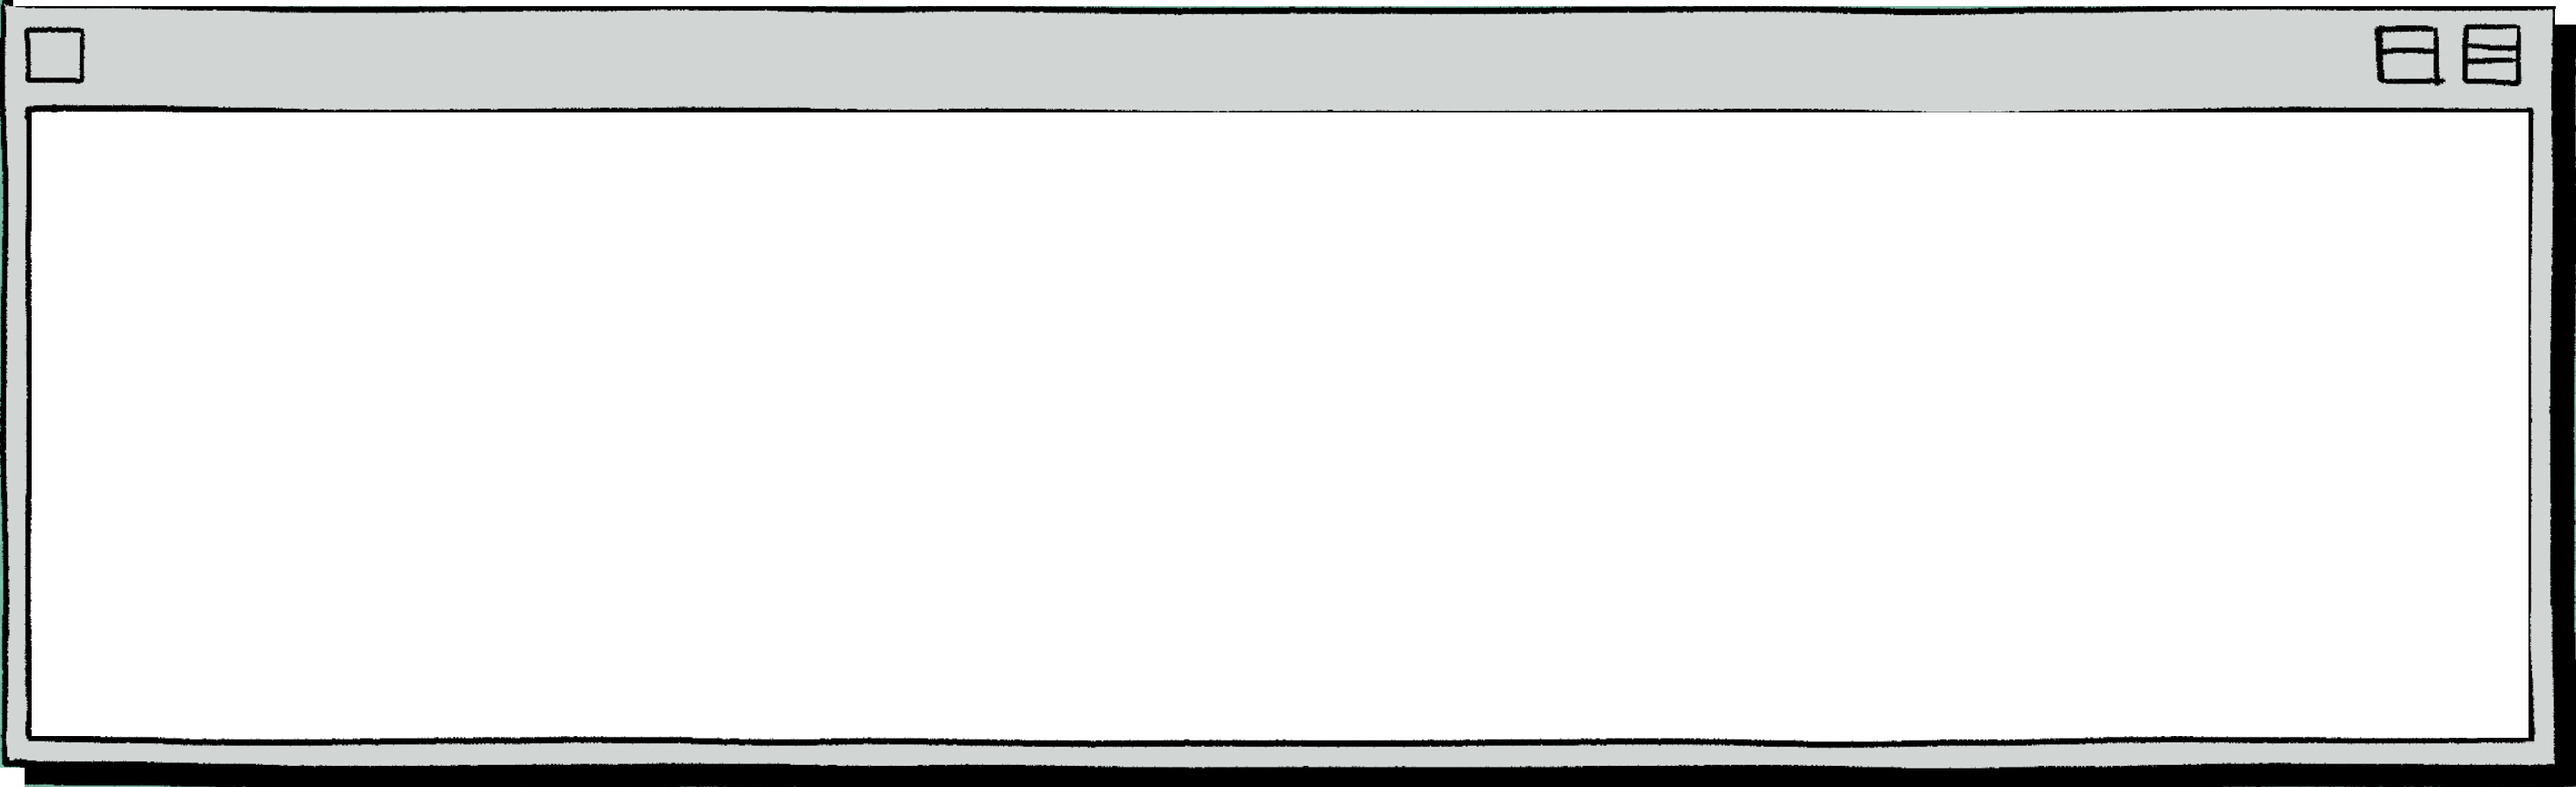
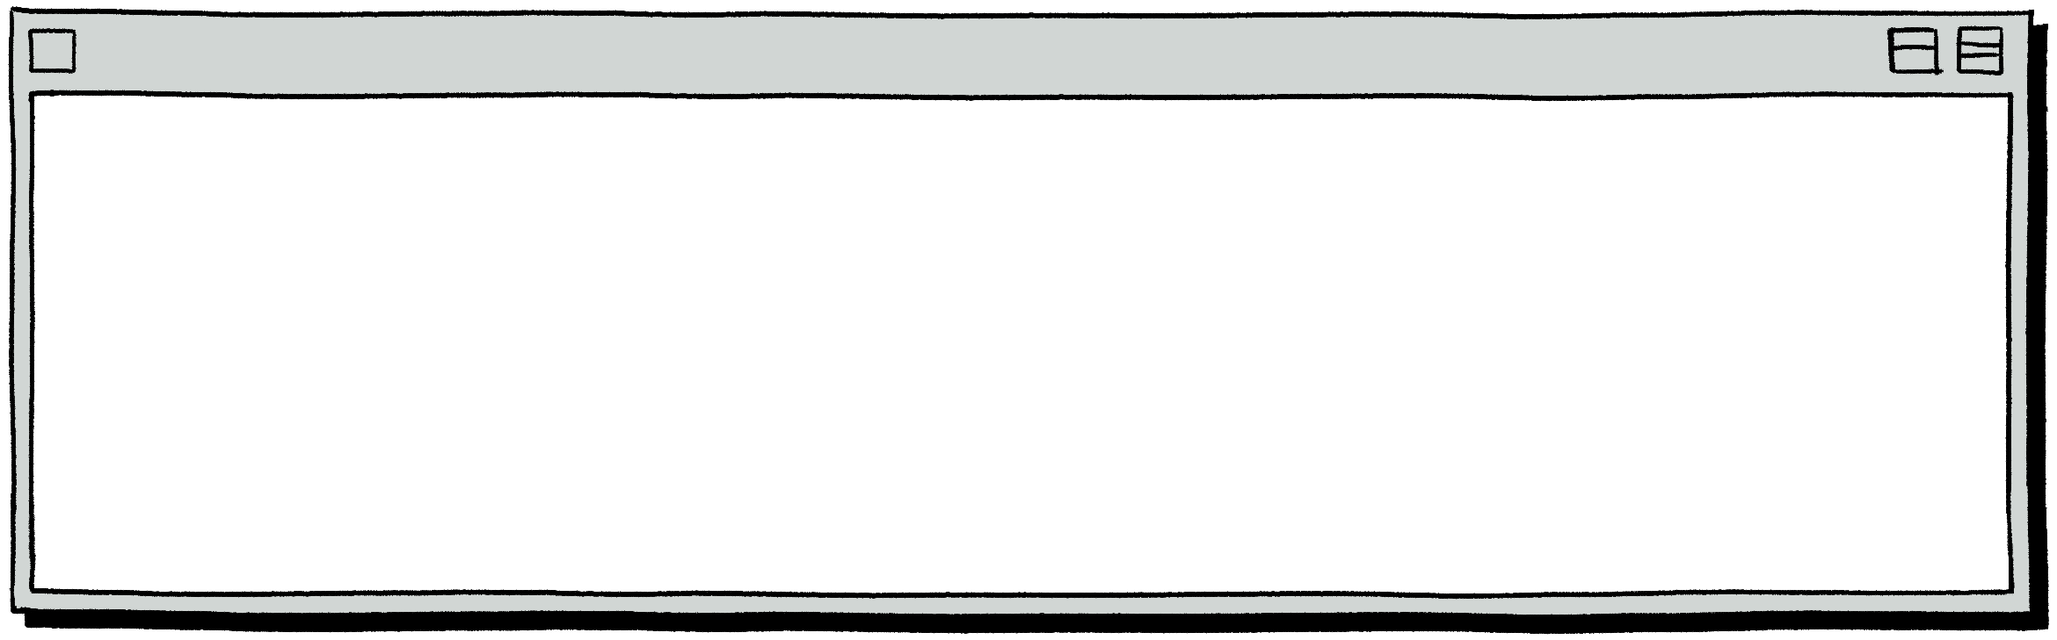
Made puzzle 3.1 native

Changed region(s): [[0.0, 0.0, 1.0, 1.0]]

diff --git a/puzzles/templates/puzzle_bodies/r3/1-help-me-chatomg.html b/puzzles/templates/puzzle_bodies/r3/1-help-me-chatomg.html
@@ -2,26 +2,233 @@
 {% load static %}
 {% block html_class %}r3{% endblock %}
 
-{% block puzzle-body-html %}
+{% block puzzle-body-md %}
 
 <style>
-    img {
-        max-width: 100%;
-    }
+td, th {
+    border: none!important;
+ }
+
+ .avatar {
+    flex: 0 0 40px;
+    height: 40px;
+	color: var(--white-color);
+	padding: 20px;
+	border-radius: 5px;
+    text-align: center;
+ }
+
+.omg {
+    background-color: #61B59D;
+ }
+
+.me {
+	background-color: #8656B9;
+}
+
+.content {
+    text-align: left;
+    margin-left: 20px;
+}
+
+.chat {
+    display: flex;
+    align-items: left;
+    justify-content: start;
+    padding: 10px;
+}
+
+.alt {
+    background-color: #eeeeee;
+    border-top: 1px solid #666666;
+    border-bottom: 1px solid #666666;
+}
+
 </style>
 
 <div class="window">
     <div class="name">flavor.txt</div>
-    <p>Your buddy developed a new AI, but it could use a bit more training. Maybe it can help you write a puzzle hunt! Be warned — its vocabulary is limited, so make sure you're getting the most out of each available term.</p>
+    <p class="flavortext">Your buddy developed a new AI, but it could use a bit more training. Maybe it can help you write a puzzle hunt! Be warned — its vocabulary is limited, so make sure you're getting the most out of each available term.</p>
+    <p><a href=https://docs.google.com/spreadsheets/d/18baZvdJsiwwcew1K9yxNLVOoWe-r0c5ku7P5NAVYW08/edit?usp=sharing>Copyable Spreadsheet</a></p>
 </div>
 
+<div class="window" markdown="1">
+    <div class="name">available_terms.list</div>
 
-<object data={% static 'puzzle_resources/r3/p1/help-me-chatomg.pdf' %} type="application/pdf" width="100%" height="640">
-</object>
+<!-- --> | <!-- --> | <!-- --> | <!-- --> | <!-- -->
+:----: | :----: | :----: | :----: | :----:
+AND DESTROY | FINGERPAINT  | JULIET MORE | OATH | SOLFEGE
+CAT | HEX | KISS | PAST |  SPICE THROUGH
+AND RESCUE |  FIX FIRMLY | LACK  | PIECING | SPOKE
+APEX | FOR GOLD | LAW | PIZZA | SPOKEN
+BEGUILED | GIVE YOUR | LEG WARMER | PLAN | STAG PARTY
+BIG SLICE | GO PAST   | LIGHT | PRAIRIE | SUN
+BODEGA | GUMPTION | LIKE SPOCK | PRIM | TALE
+BOWLER | GUNPORT | MAKE BIG | QUACK COMEDY | THREE
+CAR | HARPOON GUN | MEADOW VOLES | RANT | THROUGHPUT
+CAREGIVER | HAVE A | MICROSOFT | RELIEF | WARRANT
+CROSS | HIPPO | MINOTAUR PLACE | SALIENT | WHEELIE
+CRUEL PARTNER | HYSTERICAL | MISSION | SAVED ME | WINO
+DC LORE | IM ON FIRE | MUMS THE | SCISSORS | WRITTEN
+EGYPT | INDEX | MUSIC INTRO | SESAME | XMAS VEHICLE
+ENGINE | JEDI SLEW | NOSFERATU | SIGNAL FIRE | YEARLIES
+EVIL SKEW | | | |
 
-<p><a href={% static 'puzzle_resources/r3/p1/help-me-chatomg.pdf' %}>Download PDF</a></p>
-<p><a href=https://docs.google.com/spreadsheets/d/18baZvdJsiwwcew1K9yxNLVOoWe-r0c5ku7P5NAVYW08/edit?usp=sharing>Copyable Spreadsheet</a></p>
+<img src="{% static 'puzzle_resources/r3/p1/input.png' %}"/>
+</div>
 
+<div class="window" markdown="1">
+    <div class="name">chatomg.exe</div>
+    <div class="chat">
+        <div class="avatar me">me</div>
+        <p class="content">Ok, let's see what this thing can do. ChatOMG, write me a puzzle using something similar-ish to English.<br /><br />Please include the terms: […]</p>
+    </div>
+    <div class="chat alt">
+        <div class="avatar omg">OMG</div>
+        <p class="content">Wetash! Deesh, deesh, deesh ... let's see how well you do on this quiz: <br /><br />
+        Q1: What's the opposite of a woven? (5 points) <br />
+        Q2: What's the perfect wompf when you're hungwah? (2 points) <br />
+        Q3: What's better than apper, but worse than marf? (2 points) <br />
+        Q4: What do you call someone who is very garsha? (7 points) <br />
+        Q5: What would be a positive outcome when you say "Za woka genava"? (3 points) <br />
+        Q6: What's mik and mak? (1 point) <br />
+        Q7: What do you say if you're feeling hap, or think to yourself, ravasheen? (2 points) <br />
+        Q8: What's something known to go juum juum? (8 points) <br /><br />
+        Final Question: Did you find the hidden word? Great! What are the members associated to that word that come in the highest quantity? In English, please!</p>
+    </div>
+    <div class="chat">
+        <div class="avatar me">me</div>
+        <p class="content">Well that was unexpected. ChatOMG write me an example puzzle, for clarification. <br /><br /> Please include the terms: […]</p>
+    </div>
+    <div class="chat alt">
+        <div class="avatar omg">OMG</div>
+        <p class="content">Will do! Here's a puzzle with some short examples and clarifications:<br /> <br /> 
 
+            To clarify: pong, radar, or utility<br /> 
+            For example: closer, heater, or bench<br /> 
+            For example: dad, summer, or beach<br /> 
+            To clarify: Legolas, Dobbie, or shelf<br /> 
+            For example: George Washington, turkey, or pumpkin<br /> 
+            For example: foot, fish, or lone<br /> 
+            To clarify: Sandwich, Grey, and Warren<br /> 
+            To clarify: stiletto, wrestler, or command<br /> 
+            To clarify: table, lick, or shaker<br /> 
+            For example: construct, figure, or increase<br /> 
+            To clarify: scissors, glasses, or pants</p>
+    </div>
+    <div class="chat">
+        <div class="avatar me">me</div>
+        <p class="content">Interesting, I think I'm getting it. ChatOMG, write me a one-off puzzle about my favorite childhood thing.<br /> <br />Please include the terms: […]</p>
+    </div>
+    <div class="chat alt">
+        <div class="avatar omg">OMG</div>
+        <p class="content">You got it! Check out this one-off story I wrote:<br /><br />
+
+            One day, a predator at the peak of his career decided to join a tournament, donning his signature blue boxing gloves. He was a gentle giant from a place before clocks, known for the the wheel part pattern along his back. To prepare, he emulated a hungry hungry animal at his grand library in Waterfall City. He chomped on a huge piece of pie, feeling quite maternal, despite being lost in this place. He practiced putting a curse on his friends, including a cowboy, a springy dog, and a piggy bank. Then he rocked out with his owners by drinking way more than he should have, turning his skin even more pink. He finished the day by stealing a princess with his kids to score a perfect 300. <br /><br />
+        
+            All in all, a tee-rrrific day!</p>
+    </div>
+    <div class="chat">
+        <div class="avatar me">me</div>
+        <p class="content">How bizarre. ChatOMG, write me a puzzle using grille cipher cryptography.<br /><br />Please include the terms: […]</p>
+    </div>
+    <div class="chat alt">
+        <div class="avatar omg">OMG</div>
+        <p class="content">Coming right up! Here is a cryptic recipe for a grilled sandwich:<br /><br />
+
+            Each portion serves 8<br /><br />
+            
+            Start by preparing the griddle, then assemble the following fillings:<br /><br />
+            
+            Step 1: Scramble most of crust, fill with INGREDIENT berries<br />
+            Step 2: Seed grains, INGREDIENT, and headless tusks (2 wds)<br />
+            Step 3: Prod INGREDIENT to start something purple<br />
+            Step 4: Broadcast coal with sushi center INGREDIENT for a side dish<br />
+            Step 5: Craft beer INGREDIENT after dicing tofus with the center removed (2 wds)<br />
+            Step 6: Swirl brie after INGREDIENT for top-notch beef (2 wds)<br />
+            Step 7: Combine crab tail with INGREDIENT and oddly cloudy sablefish (2 wds)<br />
+            Step 8: Dry noodles and place INGREDIENT inside heads of rye, artichoke, wheat, and alfalfa (2 wds)<br /><br />
+            
+            Finally, grille on setting 4-1-8-7-2-5-6-3, then follow the instruction to adjust the grille and try again.</p>
+    </div>
+    <div class="chat">
+        <div class="avatar me">me</div>
+        <p class="content">Now I'm hungry. ChatOMG, write me an amazing puzzle.<br /><br />Please include the terms: […]</p>
+    </div>
+    <div class="chat alt">
+        <div class="avatar omg">OMG</div>
+        <p class="content">Yep! This maze is solvable, right? Hmm, I guess you can find your own way through via nine shortcuts. Just be sure to not lose anything when you do!<br /><br />
+
+            |&nbsp;&nbsp;&nbsp;|<br />
+            |&nbsp;&nbsp;&nbsp;\———————————————————————————————————\<br />
+            |&nbsp;S&nbsp;&nbsp;&nbsp;I&nbsp;&nbsp;&nbsp;D&nbsp;&nbsp;&nbsp;E&nbsp;&nbsp;&nbsp;B&nbsp;&nbsp;&nbsp;Y&nbsp;|&nbsp;S&nbsp;&nbsp;&nbsp;I&nbsp;&nbsp;&nbsp;D&nbsp;&nbsp;&nbsp;E&nbsp;|<br />
+            |&nbsp;&nbsp;&nbsp;————————————————\&nbsp;&nbsp;&nbsp;\———\&nbsp;&nbsp;&nbsp;————————|<br />
+            |&nbsp;L&nbsp;&nbsp;&nbsp;E&nbsp;&nbsp;&nbsp;G&nbsp;&nbsp;&nbsp;A&nbsp;|&nbsp;L&nbsp;|&nbsp;R&nbsp;&nbsp;&nbsp;I&nbsp;|&nbsp;G&nbsp;&nbsp;&nbsp;H&nbsp;&nbsp;&nbsp;T&nbsp;|<br />
+            |&nbsp;&nbsp;&nbsp;|&nbsp;&nbsp;&nbsp;/———————/&nbsp;&nbsp;&nbsp;\———\&nbsp;&nbsp;&nbsp;\———————\&nbsp;&nbsp;&nbsp;|<br />
+            |&nbsp;F&nbsp;|&nbsp;I&nbsp;|&nbsp;N&nbsp;&nbsp;&nbsp;A&nbsp;&nbsp;&nbsp;L&nbsp;&nbsp;&nbsp;E&nbsp;|&nbsp;N&nbsp;&nbsp;&nbsp;T&nbsp;&nbsp;&nbsp;R&nbsp;|&nbsp;Y&nbsp;|<br />
+            |&nbsp;&nbsp;&nbsp;|———|&nbsp;&nbsp;&nbsp;|&nbsp;&nbsp;&nbsp;/———————/&nbsp;&nbsp;&nbsp;/———\&nbsp;&nbsp;&nbsp;|&nbsp;&nbsp;&nbsp;|<br />
+            |&nbsp;T&nbsp;|&nbsp;H&nbsp;|&nbsp;O&nbsp;|&nbsp;U&nbsp;|&nbsp;G&nbsp;&nbsp;&nbsp;H&nbsp;&nbsp;&nbsp;T&nbsp;|&nbsp;F&nbsp;|&nbsp;U&nbsp;|&nbsp;L&nbsp;|<br />
+            |&nbsp;&nbsp;&nbsp;|&nbsp;&nbsp;&nbsp;|&nbsp;&nbsp;&nbsp;|&nbsp;&nbsp;&nbsp;\———\&nbsp;&nbsp;&nbsp;————/&nbsp;&nbsp;&nbsp;|&nbsp;&nbsp;&nbsp;|&nbsp;&nbsp;&nbsp;|<br />
+            |&nbsp;G&nbsp;|&nbsp;U&nbsp;&nbsp;&nbsp;N&nbsp;|&nbsp;S&nbsp;&nbsp;&nbsp;L&nbsp;|&nbsp;I&nbsp;&nbsp;&nbsp;N&nbsp;&nbsp;&nbsp;G&nbsp;|&nbsp;E&nbsp;|&nbsp;R&nbsp;|<br />
+            |&nbsp;&nbsp;&nbsp;|&nbsp;&nbsp;&nbsp;/————————   \———————————/&nbsp;&nbsp;&nbsp;|&nbsp;&nbsp;&nbsp;|<br />
+            |&nbsp;G&nbsp;|&nbsp;R&nbsp;|&nbsp;E&nbsp;&nbsp;&nbsp;E&nbsp;&nbsp;&nbsp;N&nbsp;&nbsp;&nbsp;G&nbsp;|&nbsp;I&nbsp;&nbsp;&nbsp;A&nbsp;&nbsp;&nbsp;N&nbsp;|&nbsp;T&nbsp;|<br />
+            |&nbsp;&nbsp;&nbsp;\———|&nbsp;&nbsp;&nbsp;/———————\&nbsp;&nbsp;&nbsp;|&nbsp;&nbsp;&nbsp;/———————/&nbsp;&nbsp;&nbsp;|<br />
+            |&nbsp;M&nbsp;&nbsp;&nbsp;O&nbsp;|&nbsp;N&nbsp;|&nbsp;U&nbsp;&nbsp;&nbsp;M&nbsp;|&nbsp;E&nbsp;|&nbsp;N&nbsp;|&nbsp;T&nbsp;&nbsp;&nbsp;A&nbsp;&nbsp;&nbsp;L&nbsp;|<br />
+            |———\&nbsp;&nbsp;&nbsp;|&nbsp;&nbsp;&nbsp;|&nbsp;&nbsp;&nbsp;————————/&nbsp;&nbsp;&nbsp;\———————\&nbsp;&nbsp;&nbsp;|<br />
+            |&nbsp;M&nbsp;|&nbsp;I&nbsp;|&nbsp;L&nbsp;|&nbsp;L&nbsp;&nbsp;&nbsp;E&nbsp;&nbsp;&nbsp;R&nbsp;&nbsp;&nbsp;P&nbsp;&nbsp;&nbsp;A&nbsp;&nbsp;&nbsp;R&nbsp;|&nbsp;K&nbsp;|<br />
+            |&nbsp;&nbsp;&nbsp;|&nbsp;&nbsp;&nbsp;|&nbsp;&nbsp;&nbsp;\———————————————————————/&nbsp;&nbsp;&nbsp;|<br />
+            |&nbsp;D&nbsp;|&nbsp;R&nbsp;|&nbsp;A&nbsp;&nbsp;&nbsp;G&nbsp;&nbsp;&nbsp;O&nbsp;|&nbsp;N&nbsp;&nbsp;&nbsp;L&nbsp;&nbsp;&nbsp;O&nbsp;&nbsp;&nbsp;G&nbsp;&nbsp;&nbsp;O&nbsp;|<br />
+            |&nbsp;&nbsp;&nbsp;|&nbsp;&nbsp;&nbsp;|———————\&nbsp;&nbsp;&nbsp;|&nbsp;&nbsp;&nbsp;/———————————\&nbsp;&nbsp;&nbsp;|<br />
+            |&nbsp;R&nbsp;&nbsp;&nbsp;A&nbsp;|&nbsp;G&nbsp;&nbsp;&nbsp;E&nbsp;|&nbsp;C&nbsp;&nbsp;&nbsp;O&nbsp;|&nbsp;M&nbsp;&nbsp;&nbsp;I&nbsp;&nbsp;&nbsp;C&nbsp;|&nbsp;S&nbsp;|<br />
+            |&nbsp;&nbsp;&nbsp;/———|&nbsp;&nbsp;&nbsp;|&nbsp;&nbsp;&nbsp;\———\&nbsp;&nbsp;&nbsp;|————————&nbsp;&nbsp;&nbsp;|&nbsp;&nbsp;&nbsp;|<br />
+            |&nbsp;Q&nbsp;|&nbsp;U&nbsp;|&nbsp;E&nbsp;|&nbsp;B&nbsp;&nbsp;&nbsp;E&nbsp;|&nbsp;C&nbsp;|&nbsp;F&nbsp;&nbsp;&nbsp;L&nbsp;&nbsp;&nbsp;A&nbsp;|&nbsp;G&nbsp;|<br />
+            |&nbsp;&nbsp;&nbsp;|&nbsp;&nbsp;&nbsp;|&nbsp;&nbsp;&nbsp;|———————/&nbsp;&nbsp;&nbsp;|&nbsp;&nbsp;&nbsp;/———————/&nbsp;&nbsp;&nbsp;|<br />
+            |&nbsp;C&nbsp;|&nbsp;H&nbsp;&nbsp;&nbsp;E&nbsp;|&nbsp;S&nbsp;&nbsp;&nbsp;T&nbsp;&nbsp;&nbsp;M&nbsp;|&nbsp;I&nbsp;|&nbsp;M&nbsp;&nbsp;&nbsp;I&nbsp;&nbsp;&nbsp;C&nbsp;|<br />
+            |&nbsp;&nbsp;&nbsp;\————&nbsp;&nbsp;&nbsp;\———————————/&nbsp;&nbsp;&nbsp;|&nbsp;&nbsp;&nbsp;————\&nbsp;&nbsp;&nbsp;|<br />
+            |&nbsp;J&nbsp;&nbsp;&nbsp;A&nbsp;&nbsp;&nbsp;G&nbsp;&nbsp;&nbsp;G&nbsp;&nbsp;&nbsp;E&nbsp;&nbsp;&nbsp;D&nbsp;&nbsp;&nbsp;E&nbsp;|&nbsp;D&nbsp;&nbsp;&nbsp;G&nbsp;|&nbsp;E&nbsp;|<br />
+            \———————————————————————————————————|&nbsp;&nbsp;&nbsp;|<br />&nbsp;&nbsp;&nbsp;&nbsp;&nbsp;&nbsp;&nbsp;&nbsp;&nbsp;&nbsp;&nbsp;&nbsp;&nbsp;&nbsp;&nbsp;&nbsp;&nbsp;&nbsp;&nbsp;&nbsp;&nbsp;&nbsp;&nbsp;&nbsp;&nbsp;&nbsp;&nbsp;&nbsp;&nbsp;&nbsp;&nbsp;&nbsp;&nbsp;&nbsp;&nbsp;&nbsp;|&nbsp;&nbsp;&nbsp;|</p>
+    </div>
+    <div class="chat">
+        <div class="avatar me">me</div>
+        <p class="content">I'm feeling quite lost. ChatOMG, write me a word search.<br /><br />Please include the terms: […]</p>
+    </div>
+    <div class="chat alt">
+        <div class="avatar omg">OMG</div>
+        <p class="content">Certainly! I hope the grid is formatted correctly on your end. I couldn't decide whether to use 7 or 8 words. Did my wires get crossed?<br /><br />
+
+            <span style="width:500px; word-wrap:break-word; display:inline-block; letter-spacing: .3rem;"> AUTIVEMEUCSERDNABIATNARRAWYLCOSORYPOHVARRPLCAPLIITONOGNIMREXASTKSSUUUDIPOLEISNMOGGSFRNLLNSYAHETETIOITEAONTDSRENHVILTMTASGDEIEIEGNONIAAGRARKLAMXAIWTPEURTEYORTSEDDNANTWAYSUGFONABAPEONEKTORC</span></p>
+    </div>
+    <div class="chat">
+        <div class="avatar me">me</div>
+        <p class="content">These puzzles seem unreliable. ChatOMG, write me a puzzle that I can count on.<br /><br />Please include the terms: […]</p>
+    </div>
+    <div class="chat alt">
+        <div class="avatar omg">OMG</div>
+        <p class="content">For sure! Here's a counting rhyme:<br /><br />
+
+            Count to ONE, also rises the ________<br />
+            Count to TWO, baddie that a ________<br />
+            Count to THREE, on a street called ________<br />
+            Count to FOUR, supervillain of ________<br /><br />
+            
+            Count one TWO, smuggled space ________<br />
+            One two THREE, in a cartoon ________<br />
+            Count one TWO, also known as ________<br />
+            One two three FOUR, didn't love ________<br /><br />
+            
+            Count down to THREE, poem of men who ________<br />
+            Down to TWO, aligns to a lawful ________<br />
+            Down to ONE, unfortunate event with a ________<br />
+            Count like so to find ________</p>
+    </div>
+    <div class="chat">
+        <div class="avatar me">me</div>
+        <p class="content">Alright, I think I've had enough. ChatOMG, write me a metapuzzle.<br /><br />Please include the terms: […]</p>
+    </div>
+    <div class="chat alt">
+        <div class="avatar omg">OMG</div>
+        <p class="content">Hm, that's strange. I believe I lack the intelligence to write you a metapuzzle. Maybe you could go ask that more popular AI for help?</p>
+    </div>
+</div>
 
 {% endblock %}

diff --git a/puzzles/static/css/map.css b/puzzles/static/css/map.css
@@ -213,22 +213,36 @@
 
 .r3 .window {
     border-image: url("/static/map_resources/r3/window.png");
-	border-image-slice:  1 fill;
+	border-image-slice:  120 60 60 40;
 	border-image-repeat: round;
-    padding: 50px 19px 16px 14px;
-    margin: auto;
+	border-image-width: 37px 15px 15px 10px;
+	border-image-outset: 7px;
+	background-color: var(--white-color);
+    padding: 40px 19px 20px 14px;
+    margin: 0px 0px 20px 0px;
+	font-size: 1.1em;
 }
 
 .r3 .window .name {
-	font-size: 2.4rem;
+	font-weight: bold;
+	color: #444444;
 	position: relative;
-	top: -35px;
+	top: -40px;
 	height: 0px
+}
+
+.r3 .flavortext {
+	font-style: italic;
 }
 
 .r3 .window img {
     width: 100%;
     object-fit: contain;
 }
+
+.r3 .window a {
+	--link-text-color: var(--accent-color);
+}
+
 
 
